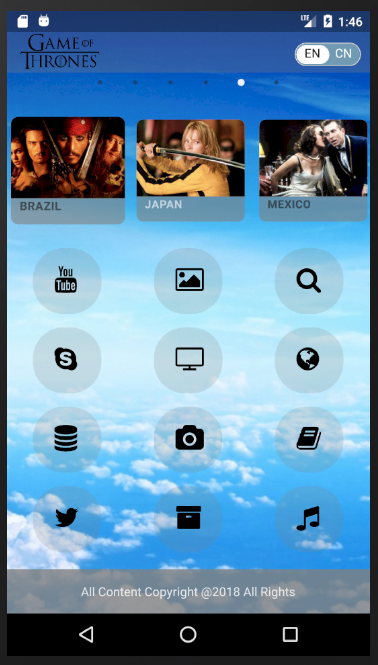
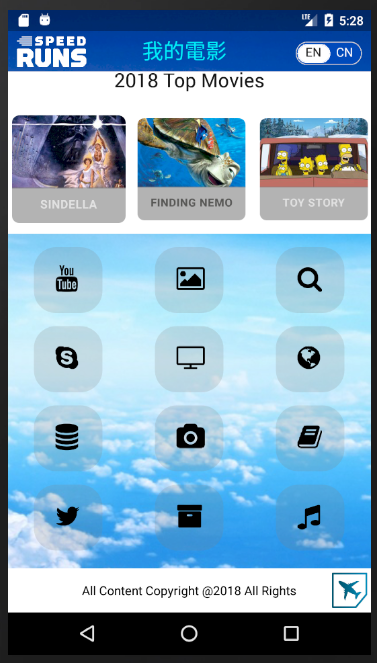
j
hi

diff --git a/activities/ImageHouse/Screen.js b/activities/ImageHouse/Screen.js
@@ -35,6 +35,8 @@ export default class BackgroundImage extends Component {
                 <Image source={require('../game2.png')}
                        style={styles.logo}/>
 
+                <Text style={styles.my}>我的電影</Text>
+
                 <SwitchButton
                     onValueChange={(val) => this.setState({activeSwitch: val})}
                     text1='CN'
@@ -45,19 +47,32 @@ export default class BackgroundImage extends Component {
                     switchBorderRadius={100}
                     switchSpeedChange={500}
                     switchBorderColor='#d4d4d4'
-                    switchBackgroundColor='#709BB2'
+                    switchBackgroundColor='#004ABB'
                     btnBorderColor='#fff'
                     btnBackgroundColor='#fff'
                     fontColor='#fff'
                     activeFontColor='#111'
                 />
 
-
                 {this.state.activeSwitch === 1 ? console.log('view1') : console.log('view2')}
                 <ScrollView>
-                    <Carouse2/>
 
-                    <Carousel/>
+                    <View style={{backgroundColor:'#fff',justifyContent:'center',alignItems:'center'}}>
+
+                        <View style={{flexDirection:'row',justifyContent:'center'}}>
+                            <Text style={styles.arrow}>Hong Kong</Text>
+                            <Image source={require('../airplane.png')} style={styles.airplane}/>
+                            <Text style={styles.arrow}>New York</Text>
+                        </View>
+
+                        <Text style={{color:'#111',fontSize:22,fontFamily:'notoserif',marginBottom:16,marginTop:5}}>Best Movie Notifications</Text>
+                    </View>
+                        <Carouse2/>
+
+                    <View style={{backgroundColor:'#fff',justifyContent:'center',alignItems:'center',marginTop:10}}>
+                        <Text style={{color:'#111',fontSize:22,fontFamily:'Roboto',marginTop:16}}>2018 Top Movies</Text>
+                      <Carousel/>
+                    </View>
 
                     <View style={styles.absolute}>
                         <View style={styles.imageline}>
@@ -188,8 +203,11 @@ export default class BackgroundImage extends Component {
                     </View>
 
                     <View style={styles.footer}>
-                        <Text style={{color:'#fff'}}>All Content Copyright @2018 All Rights</Text>
+                        <Text style={{color:'#000'}}>All Content Copyright @2018 All Rights</Text>
                     </View>
+
+                    <Image source={require('../plane.jpg')} style={styles.plane}/>
+
 
                 </ScrollView>
 
@@ -209,23 +227,40 @@ const styles = StyleSheet.create({
     nav: {
         height: 70,
         width: width,
-        backgroundColor: 'grey',
+        backgroundColor: '#333',
         paddingTop: 24,
         paddingLeft: 10,
-        opacity: 0.3
+        opacity: 0.1
+    },
+
+    my:{
+        top: 30,
+        left: width/2.7,
+        position: 'absolute',
+        fontFamily:'course',
+        fontSize:24,
+        color:'#0ff0fA'
     },
 
     logo: {
-        width: 100,
-        height: 45,
-        top: 24,
+        width: 80,
+        height: 35,
+        top: 30,
         left: 10,
+        color:'#000',
         position: 'absolute'
     },
 
     absolute: {
         marginTop: 15,
         justifyContent: 'space-around'
+    },
+
+    arrow:{
+        marginTop:15,
+        fontSize:15,
+        paddingHorizontal:5,
+        color:'#111',
     },
 
     card: {
@@ -246,7 +281,13 @@ const styles = StyleSheet.create({
         opacity: 0.2,
         justifyContent: 'center',
         alignItems: 'center',
-        borderRadius: 35,
+        borderRadius: 25,
+    },
+
+    airplane:{
+        width:50,
+        height:30,
+        marginTop:10
     },
 
     text: {
@@ -256,12 +297,19 @@ const styles = StyleSheet.create({
         fontSize: 32
     },
 
+    plane:{
+        position:'absolute',
+        right:4,
+        bottom:5,
+        width:40,
+        height:40
+    },
+
     footer: {
-        backgroundColor: 'grey',
+        backgroundColor: '#fff',
         marginTop:20,
         flex:1,
         flexDirection:'column',
-        opacity: 0.8,
         height: 50,
         justifyContent: 'center',
         alignItems: 'center',

diff --git a/activities/ImageHouse/Carsoul2/static/entries.js b/activities/ImageHouse/Carsoul2/static/entries.js
@@ -2,32 +2,32 @@ export const ENTRIES1 = [
     {
         title: 'Beautiful and dramatic',
         subtitle: 'Lorem ipsum dolor sit amet et nuncat mergitur',
-        illustration: 'https://i.imgur.com/UYiroysl.jpg'
+        illustration: 'https://raw.githubusercontent.com/EugenePizzerbert/Movie-Web/master/screenshots/1.jpg'
     },
     {
         title: 'Earlier this morning, NYC',
         subtitle: 'Lorem ipsum dolor sit amet',
-        illustration: 'https://i.imgur.com/UPrs1EWl.jpg'
+        illustration: 'https://raw.githubusercontent.com/EugenePizzerbert/Movie-Web/master/screenshots/6.jpg'
     },
     {
         title: 'White Pocket Sunset',
         subtitle: 'Lorem ipsum dolor sit amet et nuncat ',
-        illustration: 'https://i.imgur.com/MABUbpDl.jpg'
+        illustration: 'https://raw.githubusercontent.com/EugenePizzerbert/Movie-Web/master/screenshots/7.jpg'
     },
     {
         title: 'Acrocorinth, Greece',
         subtitle: 'Lorem ipsum dolor sit amet et ',
-        illustration: 'https://i.imgur.com/KZsmUi2l.jpg'
+        illustration: 'https://raw.githubusercontent.com/EugenePizzerbert/Movie-Web/master/screenshots/4.jpg'
     },
     {
         title: 'The lone tree, majestic landscape',
         subtitle: 'Lorem ipsum dolor sit amet',
-        illustration: 'https://i.imgur.com/2nCt3Sbl.jpg'
+        illustration: 'https://raw.githubusercontent.com/EugenePizzerbert/Movie-Web/master/screenshots/5.jpg'
     },
     {
         title: 'Middle Earth, Germany',
         subtitle: 'Lorem ipsum dolor sit amet',
-        illustration: 'https://i.imgur.com/lceHsT6l.jpg'
+        illustration: 'https://raw.githubusercontent.com/EugenePizzerbert/Movie-Web/master/screenshots/3.jpg'
     }
 ];
 

diff --git a/activities/ImageHouse/Carsoul/static/entries.js b/activities/ImageHouse/Carsoul/static/entries.js
@@ -1,32 +1,32 @@
 
 export const ENTRIES2 = [
     {
-        title: 'Brazil',
+        title: 'Bafubali',
 
         illustration: 'https://image.tmdb.org/t/p/w300/8AUQ7YlJJA9C8kWk8P4YNHIcFDE.jpg'
     },
     {
-        title: 'Japan',
+        title: 'Girl general',
 
         illustration: 'https://image.tmdb.org/t/p/w300/kkS8PKa8c134vXsj2fQkNqOaCXU.jpg'
     },
     {
-        title: 'Mexico',
+        title: 'Romans youth',
 
         illustration: 'https://image.tmdb.org/t/p/w300/3EqYpbGCE9S5GddU2K4cYzP5UmI.jpg'
     },
     {
-        title: 'China',
+        title: 'Sindella',
 
         illustration: 'https://image.tmdb.org/t/p/w300/4iJfYYoQzZcONB9hNzg0J0wWyPH.jpg'
     },
     {
-        title: 'America',
+        title: 'Finding Nemo',
 
         illustration: 'https://image.tmdb.org/t/p/w300/n2vIGWw4ezslXjlP0VNxkp9wqwU.jpg'
     },
     {
-        title: 'Norway',
+        title: 'Toy story',
 
         illustration: 'https://image.tmdb.org/t/p/w300/gMjtdTP6HIi7CDilqXwnX8vouxO.jpg'
     }

diff --git a/activities/ImageHouse/Carsoul/styles/SliderEntry.style.js b/activities/ImageHouse/Carsoul/styles/SliderEntry.style.js
@@ -40,7 +40,6 @@ export default StyleSheet.create({
     imageContainer: {
         flex: 1,
         marginBottom: IS_IOS ? 0 : -1, // Prevent a random Android rendering issue
-        backgroundColor: 'white',
         borderTopLeftRadius: entryBorderRadius,
         borderTopRightRadius: entryBorderRadius
     },
@@ -66,8 +65,9 @@ export default StyleSheet.create({
     textContainer: {
         justifyContent: 'center',
         paddingTop: 5 - entryBorderRadius,
-        paddingHorizontal: 10,
         backgroundColor: 'grey',
+        paddingTop:10,
+        alignItems:'center',
         opacity:0.6,
         borderBottomLeftRadius: entryBorderRadius,
         borderBottomRightRadius: entryBorderRadius
